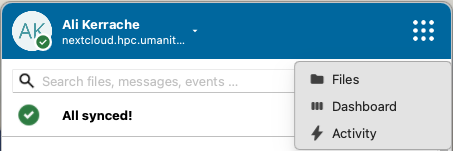
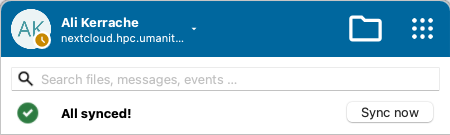
nextcloud clients

diff --git a/content/english/data-transfer/nextcloud.md b/content/english/data-transfer/nextcloud.md
@@ -1,8 +1,8 @@
 ---
 weight: 4130
-linkTitle: "NextCloud on Grex"
-title: "Using NextCloud on Grex"
-description: "How to use NextCloud service on Grex"
+linkTitle: "Nextcloud on Grex"
+title: "Using Nextcloud on Grex"
+description: "How to use Nextcloud service on Grex"
 categories: ["How to"]
 banner: True
 bannerContent: "__Nextcloud pilot project on Grex__"
@@ -115,7 +115,9 @@ Afer granting access, your account will be linked to your Nextcloud account on G
 {{< collapsible title="Access Nextcloud from Desktop client." >}}
 ![MFA second factor](/nextcloud/nextcloud-access-menu.png)
 {{< /collapsible >}}
-   
+ 
+Note that the icon next to the nextcloud account name is only visible when you add at least one folder from your local machine to synchronize with your nextcloud account.
+ 
 From this menu, you can access Nextcloud settings by clicking on the "down" arrow, and see your data synchronization status. 
 The "Files", "Dashboard" and "Activity" items there actually open the Web interface; but the Folder-looking icon there, opens local folder in the MacOS Finder.
 
